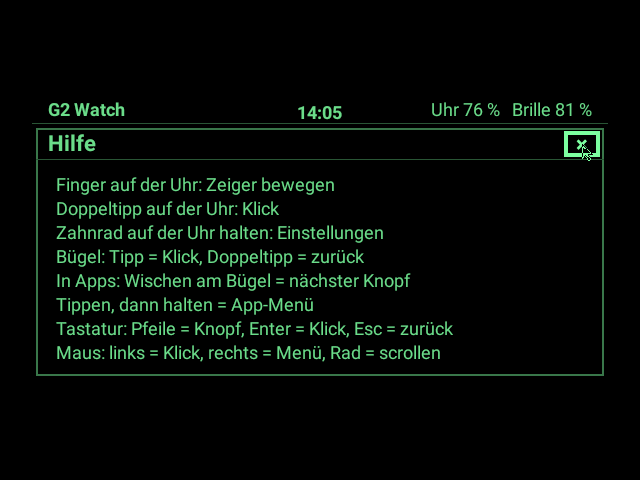
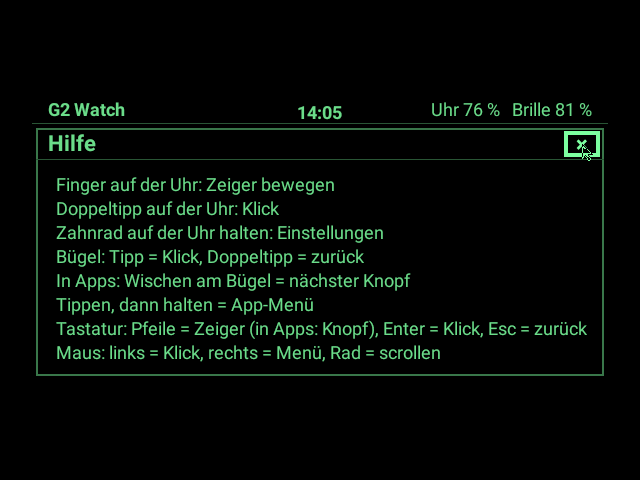
Review fixes after the v0.9.0 merge: mouse capture loop, pairing message, docs
- A captured mouse still counts as a mouse: Android reports it as
  SOURCE_MOUSE_RELATIVE while a window holds its pointer capture, so the
  touchpad released the capture and asked for it again in a loop.
- Picking a device to pair cancels the scan's 15 s timeout, which
  otherwise cleared the pairing hint or result.
- The glasses help window says that the arrows move the pointer on the
  desktop and the focus only inside apps; desktop-hilfe.png regenerated.
- Docs: 09 §2 and the PackageManifest KDoc no longer claim interface 2
  for packages built now (sample api 3, version 1.1.0, status line);
  manifest comment points to 03 §5.4; bridge-check.js runs 32 checks;
  README names the dead keys per layout (Deutschland has ^ ´ ` only);
  test count updated.

Claude-Session: https://claude.ai/code/session_01HuvMy7K9HZjcvpoyqKZXXz

Changed region(s): [[0.2812, 0.6562, 0.9062, 0.7188]]

diff --git a/app/src/test/java/ch/madtreasures/g2watch/input/HidPairingTest.kt b/app/src/test/java/ch/madtreasures/g2watch/input/HidPairingTest.kt
@@ -1,0 +1,79 @@
+package ch.madtreasures.g2watch.input
+
+import android.Manifest
+import android.bluetooth.BluetoothClass
+import android.bluetooth.BluetoothDevice
+import android.bluetooth.BluetoothManager
+import android.content.Intent
+import android.os.Looper
+import android.os.Parcel
+import org.junit.Assert.assertEquals
+import org.junit.Assert.assertNotNull
+import org.junit.Assert.assertTrue
+import org.junit.Before
+import org.junit.Test
+import org.junit.runner.RunWith
+import org.robolectric.RobolectricTestRunner
+import org.robolectric.RuntimeEnvironment
+import org.robolectric.Shadows.shadowOf
+import org.robolectric.annotation.Config
+import java.time.Duration
+
+/** "Gerät koppeln" with Robolectric's Bluetooth: what the wearer reads while a device pairs. */
+@RunWith(RobolectricTestRunner::class)
+@Config(sdk = [35], application = android.app.Application::class)
+class HidPairingTest {
+    private val context = RuntimeEnvironment.getApplication()
+    private val adapter = context.getSystemService(BluetoothManager::class.java).adapter
+    private val main get() = shadowOf(Looper.getMainLooper())
+
+    @Before
+    fun setUp() {
+        shadowOf(context).grantPermissions(Manifest.permission.BLUETOOTH_SCAN, Manifest.permission.BLUETOOTH_CONNECT)
+        shadowOf(adapter).setEnabled(true)
+    }
+
+    /** The class of device a Bluetooth keyboard sends: peripheral with the keyboard bit. */
+    private fun keyboardClass(): BluetoothClass {
+        val parcel = Parcel.obtain()
+        try {
+            parcel.writeInt(0x0540)
+            parcel.setDataPosition(0)
+            return BluetoothClass.CREATOR.createFromParcel(parcel)
+        } finally {
+            parcel.recycle()
+        }
+    }
+
+    @Test
+    fun `picking a device ends the scan's timeout, so the pairing message stays`() {
+        val pairing = HidPairing(context) {}
+        pairing.start()
+        assertTrue(pairing.state.value.scanning)
+        // A keyboard turns up 4 s into the scan, and the wearer picks it.
+        main.idleFor(Duration.ofSeconds(4))
+        val keyboard = adapter.getRemoteDevice(ADDRESS)
+        shadowOf(keyboard).setCreatedBond(true)
+        context.sendBroadcast(
+            Intent(BluetoothDevice.ACTION_FOUND)
+                .putExtra(BluetoothDevice.EXTRA_DEVICE, keyboard)
+                .putExtra(BluetoothDevice.EXTRA_CLASS, keyboardClass())
+                .putExtra(BluetoothDevice.EXTRA_NAME, NAME),
+        )
+        main.idle()
+        assertEquals(listOf(NAME), pairing.state.value.found.map { it.name })
+        pairing.pair(ADDRESS)
+        val message = pairing.state.value.message
+        assertNotNull(message)
+        assertTrue(message!!, message.startsWith("Kopple mit $NAME"))
+        // Well past the scan's 15 s, the message is still there.
+        main.idleFor(Duration.ofSeconds(20))
+        assertEquals(message, pairing.state.value.message)
+        pairing.stop()
+    }
+
+    private companion object {
+        const val ADDRESS = "00:11:22:33:44:55"
+        const val NAME = "Tastatur K380"
+    }
+}

diff --git a/app/src/test/java/ch/madtreasures/g2watch/input/MouseCaptureTest.kt b/app/src/test/java/ch/madtreasures/g2watch/input/MouseCaptureTest.kt
@@ -1,6 +1,7 @@
 package ch.madtreasures.g2watch.input
 
 import android.content.Context
+import android.hardware.input.InputManager
 import android.os.SystemClock
 import android.view.InputDevice
 import android.view.MotionEvent
@@ -12,6 +13,7 @@ import org.junit.Test
 import org.junit.runner.RunWith
 import org.robolectric.RobolectricTestRunner
 import org.robolectric.RuntimeEnvironment
+import org.robolectric.Shadows.shadowOf
 import org.robolectric.annotation.Config
 
 /**
@@ -116,5 +118,44 @@ class MouseCaptureTest {
         assertFalse(view.captured)
         assertFalse(view.dispatchCapturedPointerEvent(relativeMove()))
         assertEquals(0, events.size)
+    }
+
+    /** An external mouse as Android describes it, by its hidden InputDevice.Builder. */
+    private fun mouseDevice(sources: Int, generation: Int): InputDevice {
+        val builder = Class.forName("android.view.InputDevice\$Builder").getConstructor().newInstance()
+        fun set(name: String, type: Class<*>, value: Any) = builder.javaClass.getMethod(name, type).invoke(builder, value)
+        set("setId", Int::class.javaPrimitiveType!!, MOUSE_ID)
+        set("setGeneration", Int::class.javaPrimitiveType!!, generation)
+        set("setName", String::class.java, "Magic Mouse")
+        set("setExternal", Boolean::class.javaPrimitiveType!!, true)
+        set("setSources", Int::class.javaPrimitiveType!!, sources)
+        return builder.javaClass.getMethod("build").invoke(builder) as InputDevice
+    }
+
+    @Test
+    fun `a captured mouse stays a mouse, so the capture holds`() {
+        val context = RuntimeEnvironment.getApplication()
+        val manager = shadowOf(context.getSystemService(InputManager::class.java))
+        val devices = InputDevices(context)
+        // As the touchpad does it: capture while the device list has a mouse.
+        fun follow() = capture.set(view, wanted = devices.devices.value.any { it.mouse })
+
+        manager.addInputDevice(mouseDevice(InputDevice.SOURCE_MOUSE, generation = 1))
+        devices.onInputDeviceAdded(MOUSE_ID)
+        follow()
+        assertTrue(view.captured)
+        // Captured, Android reports the mouse as a relative one and tells of a changed device.
+        manager.removeInputDevice(MOUSE_ID)
+        manager.addInputDevice(mouseDevice(InputDevice.SOURCE_MOUSE_RELATIVE, generation = 2))
+        devices.onInputDeviceChanged(MOUSE_ID)
+        follow()
+        assertEquals(listOf(true), devices.devices.value.map { it.mouse })
+        assertTrue(view.captured)
+        assertEquals(1, view.requests)
+        assertEquals(0, view.releases)
+    }
+
+    private companion object {
+        const val MOUSE_ID = 7
     }
 }

diff --git a/app/src/test/java/ch/madtreasures/g2watch/desktop/DesktopTest.kt b/app/src/test/java/ch/madtreasures/g2watch/desktop/DesktopTest.kt
@@ -1,5 +1,6 @@
 package ch.madtreasures.g2watch.desktop
 
+import ch.madtreasures.g2watch.FakeText
 import org.junit.Assert.assertEquals
 import org.junit.Assert.assertFalse
 import org.junit.Assert.assertNull
@@ -119,5 +120,17 @@ class DesktopTest {
         assertEquals(Target.Tile(AppId.COUNTER), desktop.hover)
         assertTrue(desktop.updateHover(0, 0))
         assertNull(desktop.hover)
+    }
+
+    @Test
+    fun `the help window says that the arrows move the pointer on the desktop`() {
+        // The window shows only on the bare desktop, where the arrows move the pointer (AppHost.desktopKey);
+        // only inside apps do they move to the next button.
+        val text = FakeText()
+        val r = tile(AppId.HELP)
+        desktop.click(r.centerX(), r.centerY())
+        DesktopRenderer(text).render(desktop, GrayRaster(DesktopLayout.SCREEN_WIDTH, DesktopLayout.SCREEN_HEIGHT))
+        val keyboard = text.drawn.single { it.startsWith("Tastatur:") }
+        assertTrue(keyboard, keyboard.startsWith("Tastatur: Pfeile = Zeiger (in Apps: Knopf)"))
     }
 }

diff --git a/app/src/main/java/ch/madtreasures/g2watch/input/InputDevices.kt b/app/src/main/java/ch/madtreasures/g2watch/input/InputDevices.kt
@@ -72,7 +72,13 @@ class InputDevices(context: Context) : InputManager.InputDeviceListener {
         fun hasKeys(device: InputDevice?): Boolean =
             device != null && device.isExternal && !device.isVirtual && device.supportsSource(InputDevice.SOURCE_KEYBOARD)
 
+        /**
+         * Whether [device] is an external mouse. While a window holds its pointer capture, Android reports
+         * the mouse as SOURCE_MOUSE_RELATIVE instead of SOURCE_MOUSE (and tells of a changed device): it
+         * still counts, or the capture would end itself and come back in a loop.
+         */
         fun isMouse(device: InputDevice?): Boolean =
-            device != null && device.isExternal && !device.isVirtual && device.supportsSource(InputDevice.SOURCE_MOUSE)
+            device != null && device.isExternal && !device.isVirtual &&
+                (device.supportsSource(InputDevice.SOURCE_MOUSE) || device.supportsSource(InputDevice.SOURCE_MOUSE_RELATIVE))
     }
 }

diff --git a/app-api/src/main/kotlin/ch/madtreasures/g2watch/apps/AppPackage.kt b/app-api/src/main/kotlin/ch/madtreasures/g2watch/apps/AppPackage.kt
@@ -33,8 +33,9 @@ class PackageFormatException(message: String) : Exception(message)
  * that class reports it, so the watch can list and check a package without running its code.
  *
  * [icon] is the package file of the app's launcher icon under `assets/` (`apps/<app id>/icon.png`), if
- * the package has one. It belongs to the package, not to the app interface: an older watch app ignores
- * it, and [G2AppApi.VERSION] stays as it is.
+ * the package has one. It belongs to the package, not to the app interface, so it needs no new
+ * [G2AppApi.VERSION] of its own: an older watch app's parser ignores it. A package built now carries
+ * [api] = [G2AppApi.VERSION] all the same, and needs a watch app that knows that version (09 §5).
  */
 data class PackageManifest(val api: Int, val main: String, val app: AppManifest, val icon: String? = null) {
 

diff --git a/app/src/main/java/ch/madtreasures/g2watch/desktop/DesktopRenderer.kt b/app/src/main/java/ch/madtreasures/g2watch/desktop/DesktopRenderer.kt
@@ -130,7 +130,7 @@ class DesktopRenderer(private val text: TextPainter) {
                 "Bügel: Tipp = Klick, Doppeltipp = zurück",
                 "In Apps: Wischen am Bügel = nächster Knopf",
                 "Tippen, dann halten = App-Menü",
-                "Tastatur: Pfeile = Knopf, Enter = Klick, Esc = zurück",
+                "Tastatur: Pfeile = Zeiger (in Apps: Knopf), Enter = Klick, Esc = zurück",
                 "Maus: links = Klick, rechts = Menü, Rad = scrollen",
             )
         }

diff --git a/app/src/main/java/ch/madtreasures/g2watch/input/HidPairing.kt b/app/src/main/java/ch/madtreasures/g2watch/input/HidPairing.kt
@@ -130,6 +130,8 @@ class HidPairing(context: Context, private val log: (String) -> Unit) {
         } catch (e: IllegalArgumentException) {
             return
         }
+        // The scan ends here; its timeout would otherwise clear the pairing message later.
+        main.removeCallbacks(timeout)
         stopScanning()
         register()
         val started = try {

diff --git a/README.md b/README.md
@@ -228,10 +228,10 @@ Cursor, darunter die Vorschläge. ← und →, Pos1 und Ende bewegen den Cursor,
 öffnet stattdessen Tastatur und Spracheingabe der Uhr.
 
 **Belegung:** Ohne eigene Einstellung tippt Android mit der amerikanischen Belegung: Y und Z wären vertauscht,
-Umlaute fehlten. Wear OS hat dafür keine Einstellung. Die App hat deshalb eigene Belegungen für **Schweiz**,
-**Deutschland** (beide mit den Akzent-Tasten ^ ´ ` ~ ¨) und **USA**. Standard ist *Automatisch*: nach der
-Sprache der Uhr (Deutsch (Schweiz) → Schweiz, anderes Deutsch → Deutschland, sonst die Belegung der Tastatur).
-Die Belegung gilt nur, wenn die Tastatur selbst keine hat.
+Umlaute fehlten. Wear OS hat dafür keine Einstellung. Die App hat deshalb eigene Belegungen für **Schweiz**
+(mit den Akzent-Tasten ^ ´ ` ~ ¨), **Deutschland** (Akzent-Tasten ^ ´ `; ~ mit AltGr direkt) und **USA**.
+Standard ist *Automatisch*: nach der Sprache der Uhr (Deutsch (Schweiz) → Schweiz, anderes Deutsch →
+Deutschland, sonst die Belegung der Tastatur). Die Belegung gilt nur, wenn die Tastatur selbst keine hat.
 
 **Wann es geht:** Tastatur und Maus wirken auf die Brille nur, solange die Uhr das Touchpad zeigt und die
 Brille verbunden ist; auf allen anderen Seiten bedienen sie die Uhr wie gewohnt. G2 Watch muss vorne sein
@@ -598,7 +598,7 @@ die Uhr offline ist.
 ./gradlew -Pg2.geckoTest=true :gecko-probe:testDebugUnitTest
 ```
 
-Stand dieses Commits: 15 + 184 + 32 + 7 + 538 Tests grün, dazu 25 im Gecko-Test (Bild-Tests werden ohne `-PsnapshotDir` übersprungen,
+Stand dieses Commits: 15 + 184 + 32 + 7 + 541 Tests grün, dazu 25 im Gecko-Test (Bild-Tests werden ohne `-PsnapshotDir` übersprungen,
 die Tests mit Evens echtem Image ohne `G2_STOCK_IMAGE`, der Vorschau-Test des Gecko-Tests ohne `PREVIEW_DIR`),
 Lint ohne Fehler. Die wichtigsten:
 

diff --git a/docs/app-entwicklung/09_App-Pakete.md b/docs/app-entwicklung/09_App-Pakete.md
@@ -7,7 +7,7 @@ Die Uhr-App muss dafür weder neu gebaut noch neu installiert werden.
 
 Stand v0.6.0: fertig und mit Tests abgesichert, **nicht auf echter Uhr erprobt**. Nur das Laden des
 DEX-Codes auf der Uhr (`DexClassLoader`) lässt sich ohne Uhr nicht testen. Seit v0.8.0 Schnittstelle
-Version 2 (§5) und das Paket Browser.
+Version 2 (§5) und das Paket Browser, seit v0.9.0 Version 3 (Tastatur, §5).
 
 ## 1. Wer macht was
 
@@ -35,11 +35,11 @@ Eine ZIP-Datei mit der Endung `.g2app`:
 ```json
 {
   "format": "g2app-paket@1",
-  "api": 2,
+  "api": 3,
   "main": "ch.madtreasures.youtube.YouTubeApp",
   "id": "ch.madtreasures.youtube",
   "name": "YouTube",
-  "version": "1.0.0",
+  "version": "1.1.0",
   "input": "pointer",
   "permissions": ["network"],
   "description": "YouTube-Videos suchen und als Graustufen-Raster auf der Brille ansehen.",
@@ -56,8 +56,9 @@ außer `icon`.
 Paket, nicht zur Schnittstelle: Der Bau-Schritt trägt es ein, wenn `src/main/assets/apps/<app-id>/icon.png`
 existiert; am `AppManifest` ändert sich nichts. Format: PNG, quadratisch, 64 × 64 empfohlen (16 bis 256 px),
 höchstens 64 KB, Graustufen auf Schwarz oder transparent (beides ist auf dem Glas durchsichtig); Gestaltung
-siehe [02 §2](02_App-Modell.md#2-manifest-g2appjson). Das Format bleibt `g2app-paket@1` und die
-Schnittstelle Version 2: Eine ältere Uhr-App überliest `icon`.
+siehe [02 §2](02_App-Modell.md#2-manifest-g2appjson). Das Format bleibt `g2app-paket@1`, und `icon` allein
+braucht keine neue Schnittstellen-Version: Eine ältere Uhr-App überliest das Feld. Ein Paket, das jetzt gebaut
+wird, trägt aber Version 3 und braucht damit die Uhr-App 0.9.0 (§5).
 
 Grenzen: Datei höchstens 20 MB, entpackt höchstens 50 MB, höchstens 2000 Dateien, Pfade ohne `..`.
 

diff --git a/docs/app-entwicklung/03_Uhr-Apps.md b/docs/app-entwicklung/03_Uhr-Apps.md
@@ -709,8 +709,8 @@ erlaubt, Downloads und Links in andere Apps nicht, ein Link in ein neues Fenster
 Zurück durch den Verlauf, Ruhen, Aktionen, Fehler), `CapturePlanTest`, `WebBridgeTest` (auch: die Dateien der
 Erweiterung passen zu Engine und Manifest), `WebPictureTest` (Seite → Brillenbild, Fehlerseite), `AppJsonTest`,
 `BrowserAppTest`, `InstalledPackagesTest`, Bilder `apps-browser-*.png` (erfundene Seiten). Das Inhalts-Skript
-prüft [`tools/page-preview/bridge-check.js`](../../tools/page-preview/README.md) in Chromium (20 Prüfungen,
-nicht in der CI).
+prüft [`tools/page-preview/bridge-check.js`](../../tools/page-preview/README.md) in Chromium (32 Prüfungen,
+davon 12 zur Bluetooth-Tastatur, nicht in der CI).
 
 **Nicht erprobt:** alles auf der echten Uhr – ob GeckoView dort startet, Tipp-Ereignisse ohne Ansicht annimmt,
 die Aufnahmen gelingen, wie schnell ein Bild entsteht, Speicher und Akku. Was davon an den Messwerten des
